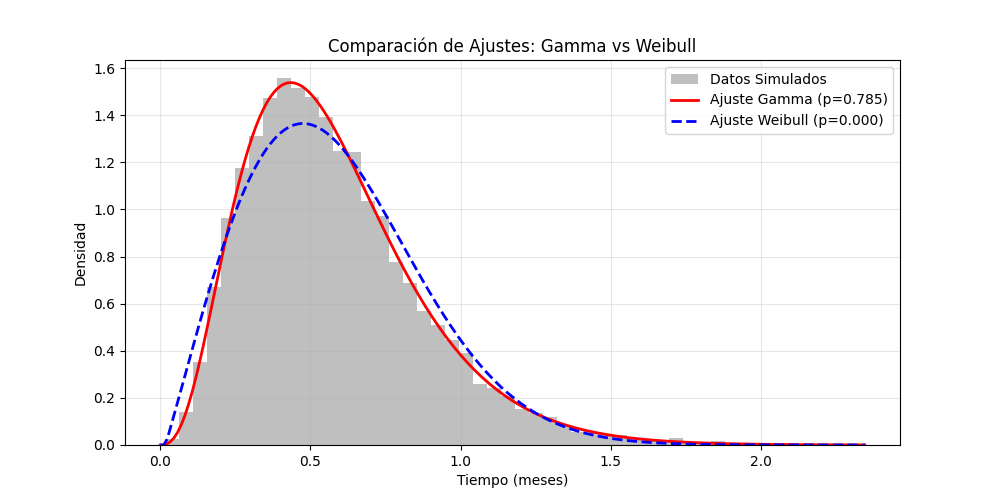
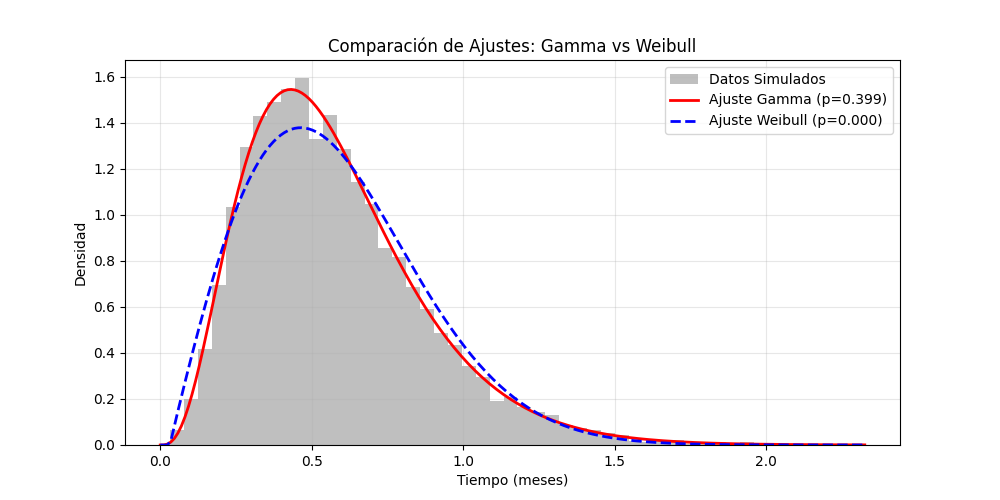
docs: se agregan comentarios explicativos y docstrings.

diff --git a/problema_reparacion.py b/problema_reparacion.py
@@ -11,28 +11,29 @@ from random import expovariate
 
 def sim_reparacion(N, S, TF, TR, generar_falla, generar_reparacion):
     """
-    Simulación de un sistema con N máquinas en funcionamiento
-    y S máquinas de repuesto.
+    Simula el tiempo hasta el colapso de un sistema con N máquinas
+    operativas y S máquinas de repuesto.
 
     Parámetros:
-        N (int) : 
-            número de máquinas en funcionamiento.
-        S (int) : 
-            número de máquinas de repuesto.
-        TF (float) : 
-            tiempo medio de funcionamiento de una máquina antes de fallar.
-        TR (float) : 
-            tiempo medio de reparación de una máquina averiada.
-        generar_falla (callable[float]) : 
-            función que  recibe TF y genera un tiempo aleatorio de 
-            funcionamiento de una máquina antes de fallar.
-        generar_reparación (callable[float]) : 
-            función que recibe TR y genera un tiempo aleatorio de
-            reparación de una máquina averiada.
-    
+        N (int):
+            Número de máquinas en funcionamiento.
+        S (int):
+            Número de máquinas de repuesto disponibles.
+        TF (float):
+            Tiempo medio de funcionamiento de una máquina antes de fallar.
+        TR (float):
+            Tiempo medio de reparación de una máquina averiada.
+        generar_falla (callable):
+            Función que recibe TF y genera un tiempo aleatorio de
+            funcionamiento antes de la siguiente falla.
+        generar_reparacion (callable):
+            Función que recibe TR y genera un tiempo aleatorio de
+            reparación.
+
     Dato de salida:
         T (float):
-            tiempo de colapso del sistema.
+            Tiempo de colapso del sistema, medido en la misma unidad que
+            TF y TR.
     """
     # t
     # Tiempo de simulación transcurrido
@@ -86,18 +87,22 @@ def sim_reparacion(N, S, TF, TR, generar_falla, generar_reparacion):
 # =============================================================================
 # ESTIMACIÓN DE PARÁMETROS
 # =============================================================================
+# Parámetros del sistema que se van a simular
 N_maquinas = 7
 S_repuestos = 3
 TF_medio = 1.0     # 1 mes
 TR_medio = 1/8.0   # 0.125 meses
-M = 10000          
+M = 10000          # Número total de réplicas de simulación
 
+# Genero las M realizaciones del tiempo de colapso del sistema
 print(f"Ejecutando {M} simulaciones del sistema...")
 tiempos_reales = np.array([sim_reparacion(N_maquinas, S_repuestos, TF_medio, TR_medio,expovariate, expovariate) for _ in range(M)])
 
+# Estimadores puntuales a partir de la muestra simulada
 media_muestral = np.mean(tiempos_reales)
 desvio_muestral = np.std(tiempos_reales, ddof=1) # ddof=1 para estimador S (muestral)
 
+# Muestro los resultados principales de la simulación
 print("-" * 40)
 print(f"RESULTADOS ESTIMACIONES:")
 print(f"MTTF (Tiempo Medio al Fallo): {media_muestral:.4f} meses")
@@ -109,6 +114,30 @@ print("-" * 40)
 # =============================================================================
 
 def calcular_T_Pearson_Gamma(datos, bins, params):
+    """
+    Calcula el estadístico de Pearson para evaluar la bondad de ajuste
+    de una distribución Gamma a un conjunto de datos simulados.
+
+    Parámetros:
+        datos (array-like):
+            Muestra de datos simulados. En este caso, contiene los tiempos
+            de colapso del sistema obtenidos mediante simulación.
+
+        bins (array-like):
+            Extremos de los intervalos utilizados para agrupar los datos.
+            Estos intervalos permiten comparar las frecuencias observadas
+            con las frecuencias esperadas bajo la distribución ajustada.
+
+        params (tuple):
+            Parámetros de la distribución Gamma ajustada a los datos.
+            Son los parámetros devueltos por stats.gamma.fit.
+
+    Dato de salida:
+        T (float):
+            Valor del estadístico de Pearson, calculado como la suma de
+            las diferencias cuadráticas entre frecuencias observadas y
+            esperadas, normalizadas por la frecuencia esperada.
+    """
     # Cuenta cuántos datos caen en cada intervalo del histograma
     obs, _ = np.histogram(datos, bins=bins)
     n_total = len(datos)
@@ -124,15 +153,19 @@ def calcular_T_Pearson_Gamma(datos, bins, params):
     # Estadístico de Pearson
     return np.sum((obs - esp)**2 / esp)
 
+# Ajuste de la distribución Gamma a los datos simulados
 params_reales_g = stats.gamma.fit(tiempos_reales)
-k_bins = 20 
+
+# Defino los intervalos usados para el test de bondad de ajuste para ambas distribuciones
+k_bins = 20
 _, bins_test = np.histogram(tiempos_reales, bins=k_bins)
 
+# Estadístico observado para la Gamma sobre los datos reales
 t_obs = calcular_T_Pearson_Gamma(tiempos_reales, bins_test, params_reales_g)
 
-print("Calculando p-valor simulado (esto puede tardar unos segundos)...")
+# Simulación del p-valor para evaluar la bondad de ajuste Gamma
 M_pvalor = 1000 # Número de muestras para el test
-conteo_extremos = 0
+excesos_g = 0
 
 for _ in range(M_pvalor):
     muestra_ficticia = stats.gamma.rvs(*params_reales_g, size=M)
@@ -143,15 +176,15 @@ for _ in range(M_pvalor):
     t_sim = calcular_T_Pearson_Gamma(muestra_ficticia, bins_test, params_ficticios)
     
     if t_sim >= t_obs:
-        conteo_extremos += 1
+        excesos_g += 1
 
-p_valor = conteo_extremos / M_pvalor
+p_valor_g = excesos_g / M_pvalor
 
 print(f"\nRESULTADOS PRUEBAS Bondad de Ajuste Gamma:")
 print(f"Estadístico T observado: {t_obs:.4f}")
-print(f"p-valor: {p_valor:.4f}")
+print(f"p-valor: {p_valor_g:.4f}")
 
-if p_valor < 0.05:
+if p_valor_g < 0.05:
     print("CONCLUSIÓN: Se rechaza H0 (La Gamma no ajusta bien).")
 else:
     print("CONCLUSIÓN: No se rechaza H0 (La Gamma es un buen modelo).")
@@ -162,6 +195,30 @@ else:
 # =============================================================================
 
 def calcular_T_Pearson_Weibull(datos, bins, params):
+    """
+    Calcula el estadístico de Pearson para evaluar la bondad de ajuste
+    de una distribución Weibull a un conjunto de datos simulados.
+
+    Parámetros:
+        datos (array-like):
+            Muestra de datos simulados. En este caso, contiene los tiempos
+            de colapso del sistema obtenidos mediante simulación.
+
+        bins (array-like):
+            Extremos de los intervalos utilizados para agrupar los datos.
+            Estos intervalos permiten comparar las frecuencias observadas
+            con las frecuencias esperadas bajo la distribución ajustada.
+
+        params (tuple):
+            Parámetros de la distribución Weibull ajustada a los datos.
+            Son los parámetros devueltos por stats.weibull_min.fit.
+
+    Dato de salida:
+        T (float):
+            Valor del estadístico de Pearson, calculado como la suma de
+            las diferencias cuadráticas entre frecuencias observadas y
+            esperadas, normalizadas por la frecuencia esperada.
+    """
     # Cuenta cuántos datos caen en cada intervalo del histograma
     obs, _ = np.histogram(datos, bins=bins)
     n_total = len(datos)
@@ -180,10 +237,11 @@ def calcular_T_Pearson_Weibull(datos, bins, params):
     # Estadístico de Pearson
     return np.sum((obs - esp)**2 / esp)
 
-# Ajuste real Weibull
+# Ajuste de la distribución Weibull a los datos simulados
 params_reales_w = stats.weibull_min.fit(tiempos_reales)
 t_obs_w = calcular_T_Pearson_Weibull(tiempos_reales, bins_test, params_reales_w)
 
+# Simulación del p-valor para evaluar la bondad de ajuste Weibull
 print("Simulando p-valor Weibull...")
 excesos_w = 0
 for _ in range(M_pvalor):
@@ -205,14 +263,15 @@ else:
     print("CONCLUSIÓN: No se rechaza H0 (La Weibull es un modelo plausible).")
 
 # =============================================================================
-# 4. GRÁFICOS
+# GRÁFICOS
 # =============================================================================
+# Genero el gráfico comparativo entre los ajustes Gamma y Weibull
 plt.figure(figsize=(10, 5))
 plt.hist(tiempos_reales, bins=50, density=True, alpha=0.5, color='gray', label='Datos Simulados')
 
 x = np.linspace(0, max(tiempos_reales), 200)
 # Curva Gamma
-plt.plot(x, stats.gamma.pdf(x, *params_reales_g), 'r-', lw=2, label=f'Ajuste Gamma (p={p_valor:.3f})')
+plt.plot(x, stats.gamma.pdf(x, *params_reales_g), 'r-', lw=2, label=f'Ajuste Gamma (p={p_valor_g:.3f})')
 # Curva Weibull
 plt.plot(x, stats.weibull_min.pdf(x, *params_reales_w), 'b--', lw=2, label=f'Ajuste Weibull (p={p_valor_w:.3f})')
 
